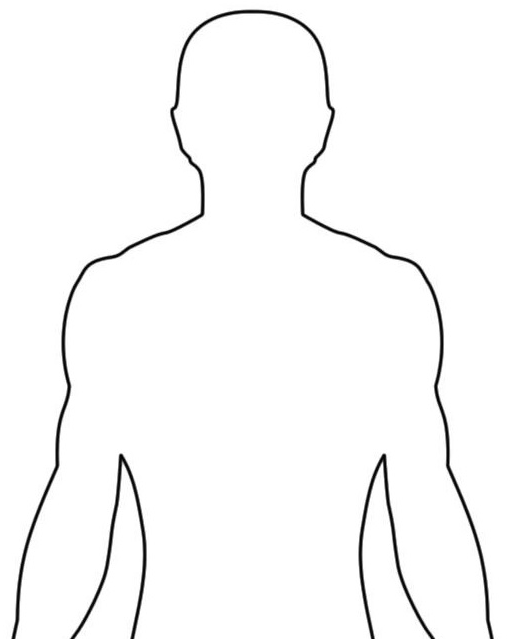
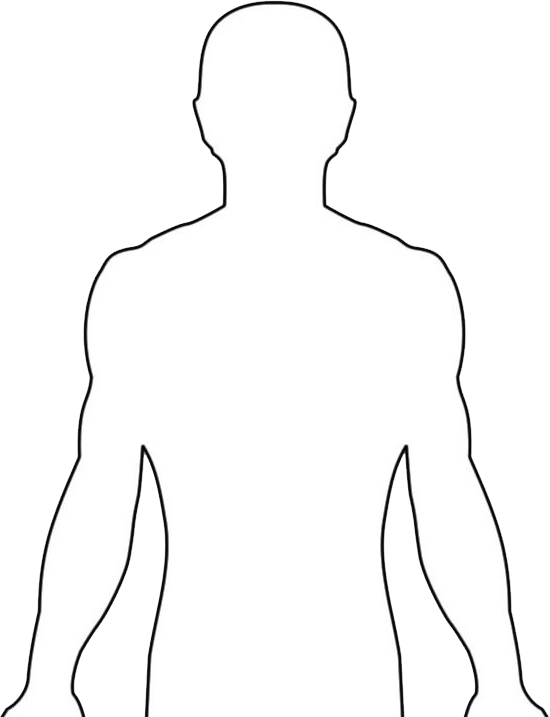
individual

diff --git a/public/css/muhafiz-style.css b/public/css/muhafiz-style.css
@@ -1595,7 +1595,7 @@ div.dataTables_wrapper .ui-widget-header {
 .back {
 	background-image: url("back.png");
 	background-repeat: no-repeat;
-	height: 500px;
+	height: 800px;
 	width: 300px;
 
 }
